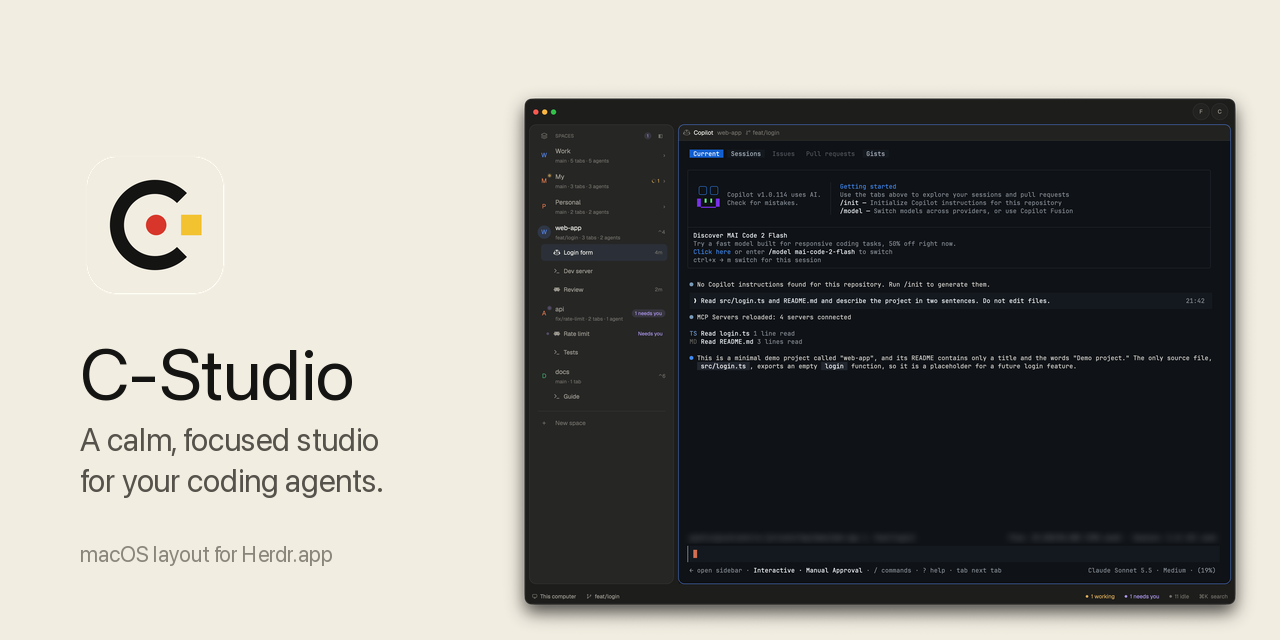
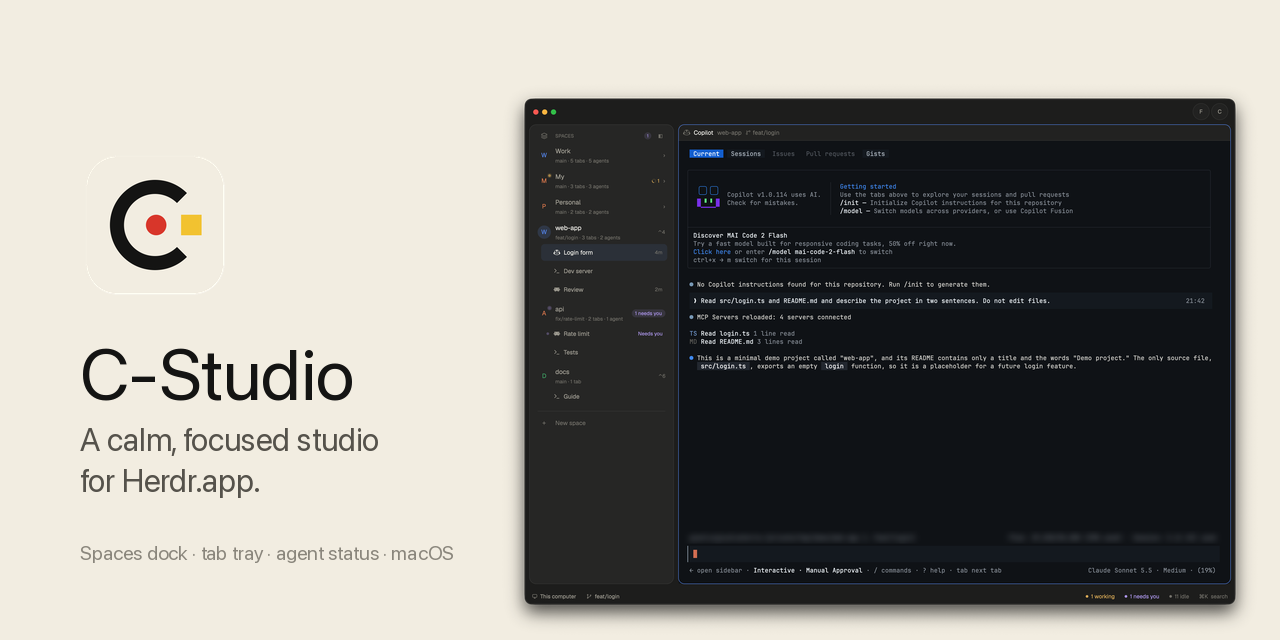
Tagline: a calm, focused studio for Herdr.app

Changed region(s): [[0.0938, 0.7188, 0.3125, 0.7812], [0.0625, 0.8438, 0.375, 0.875]]

diff --git a/README.md b/README.md
@@ -2,9 +2,9 @@
 
 <h1 align="center">C-Studio</h1>
 
-<p align="center"><strong>A calm, focused studio for your coding agents.</strong></p>
+<p align="center"><strong>A calm, focused studio for <a href="https://herdr.app">Herdr.app</a>.</strong></p>
 
-C-Studio is a layout for [Herdr.app](https://herdr.app) that feels at home on a Mac. Everything you don't need right now steps back; the one agent that needs you comes forward.
+A layout for your coding agents that feels at home on a Mac. Everything you don't need right now steps back; the one agent that needs you comes forward.
 
 ![C-Studio with the spaces dock pinned, dark theme](docs/dock-dark.png)
 
